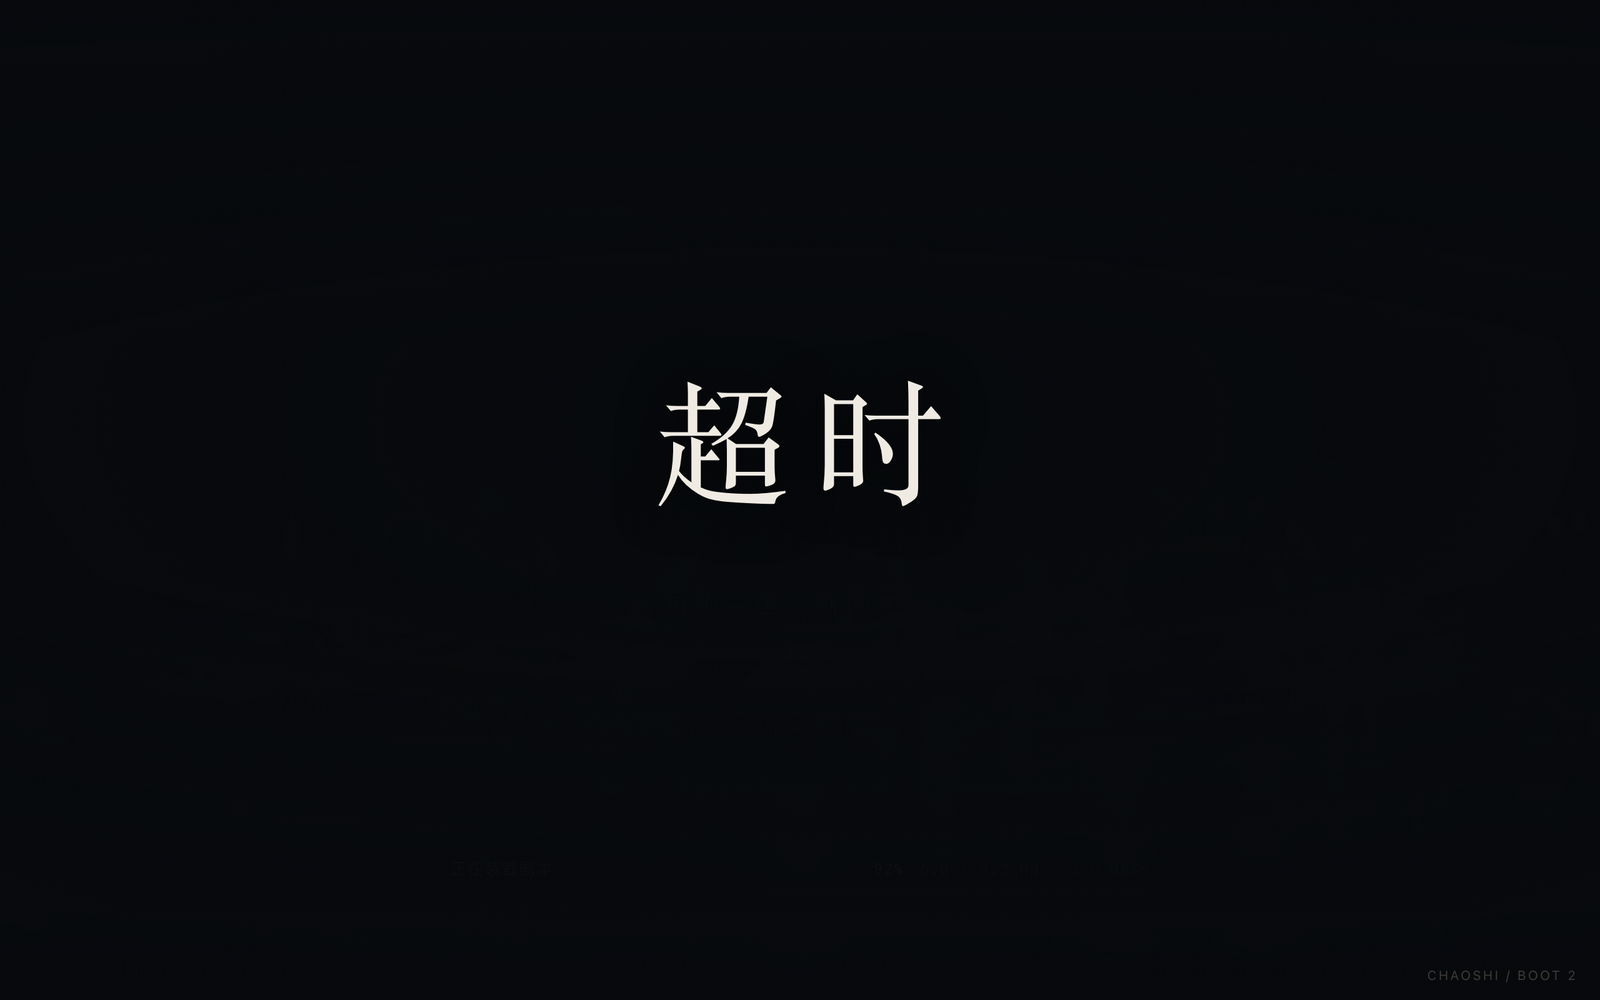
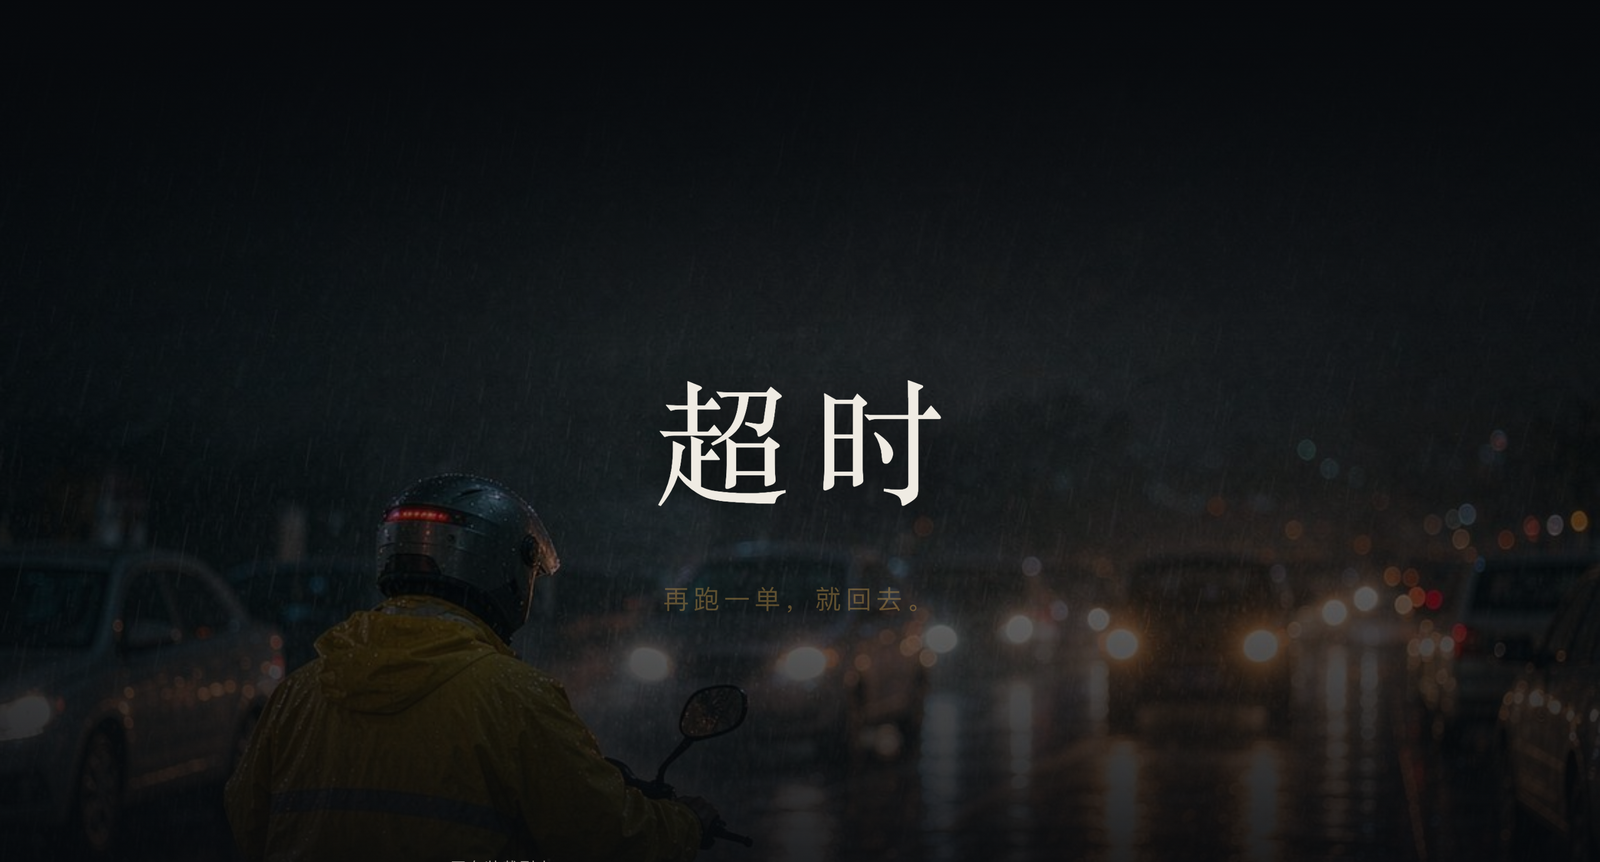
docs: 预览图裁掉载入进度条，修正图片说明

diff --git a/README.md b/README.md
@@ -7,7 +7,7 @@
 **下载发行包：[Releases](https://github.com/gongfpp/chaoshi-2018/releases/latest)**
 
 <p align="center">
-  <img src="docs/screenshots/home.png" width="760" alt="《超时》在线阅读页：标题、下载与进入视觉小说入口、章节目录" />
+  <img src="docs/screenshots/home.png" width="760" alt="《超时》视觉小说网页版标题页：雨夜里骑车的外卖员，标题为「超时」，副标题「再跑一单，就回去。」" />
 </p>
 
 本项目包含：
